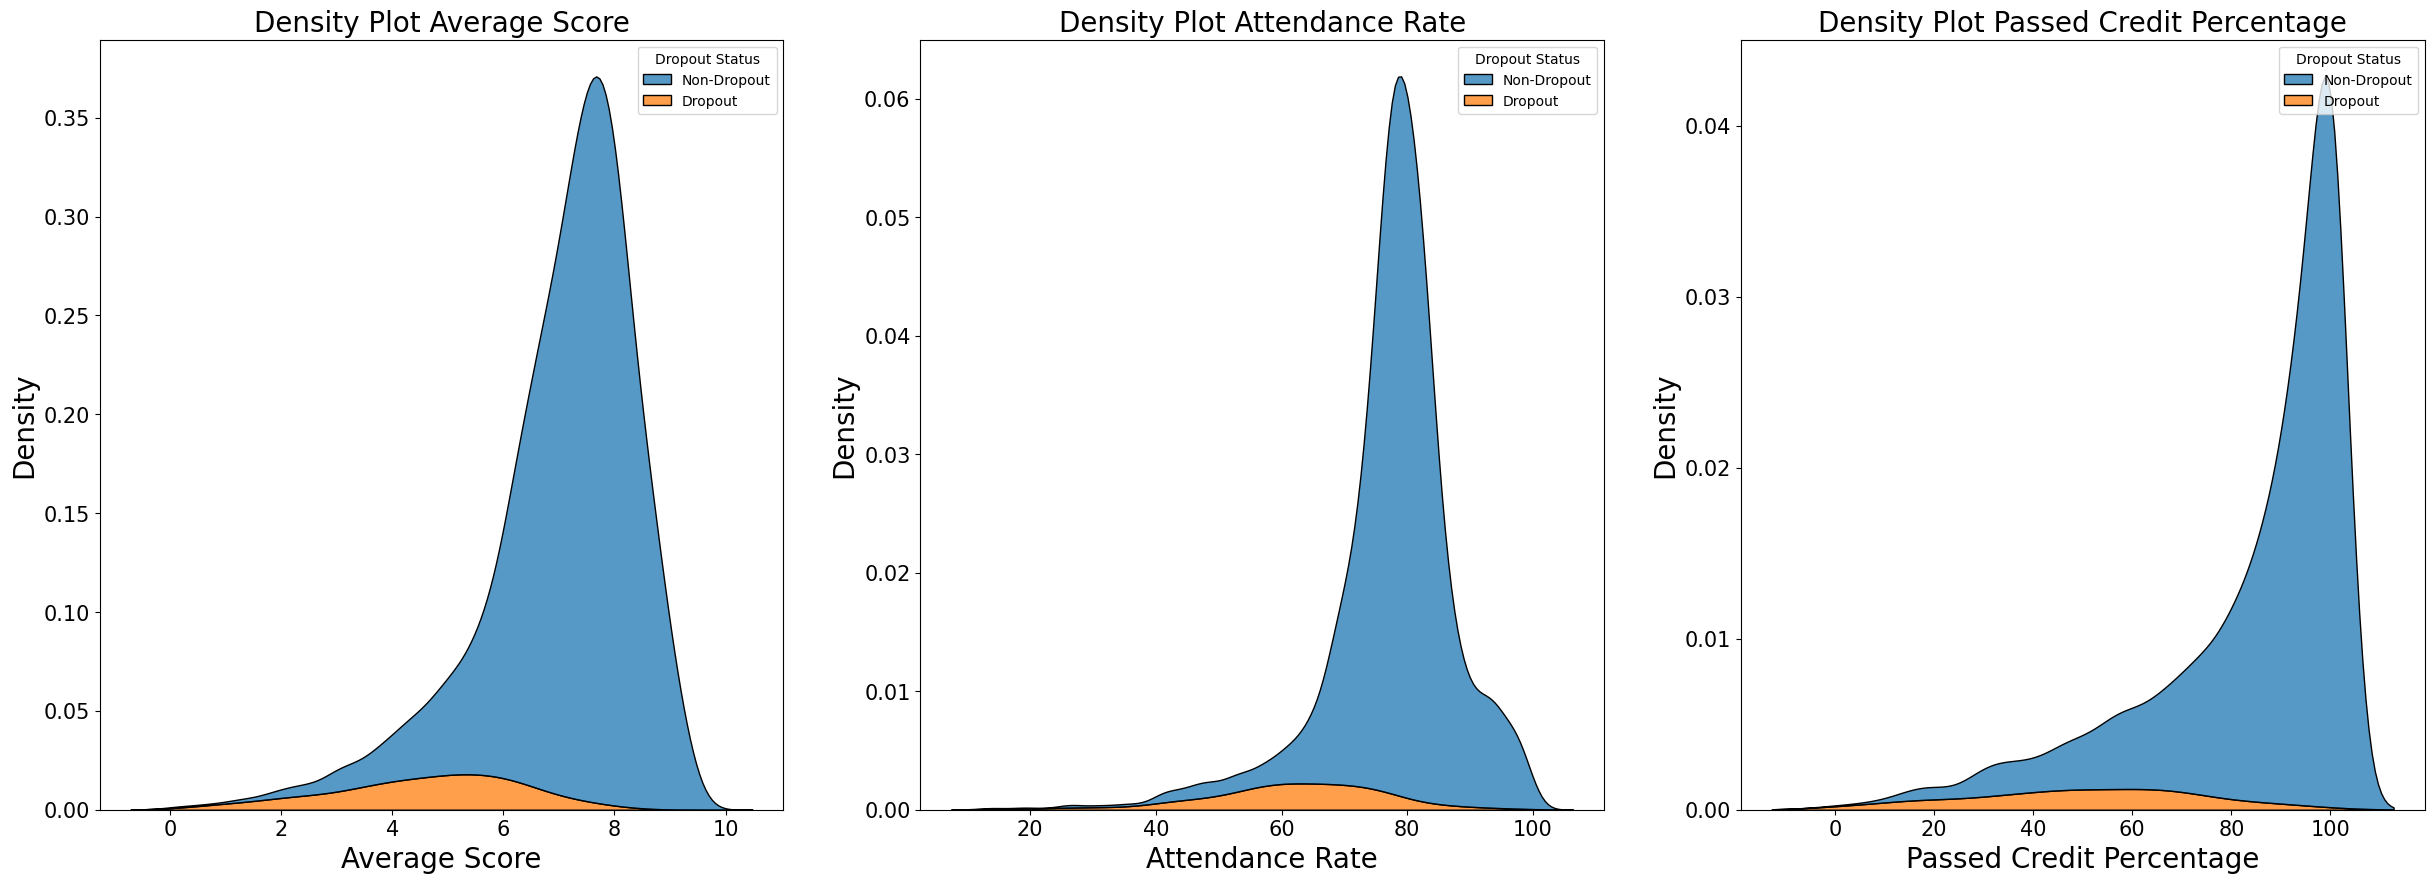
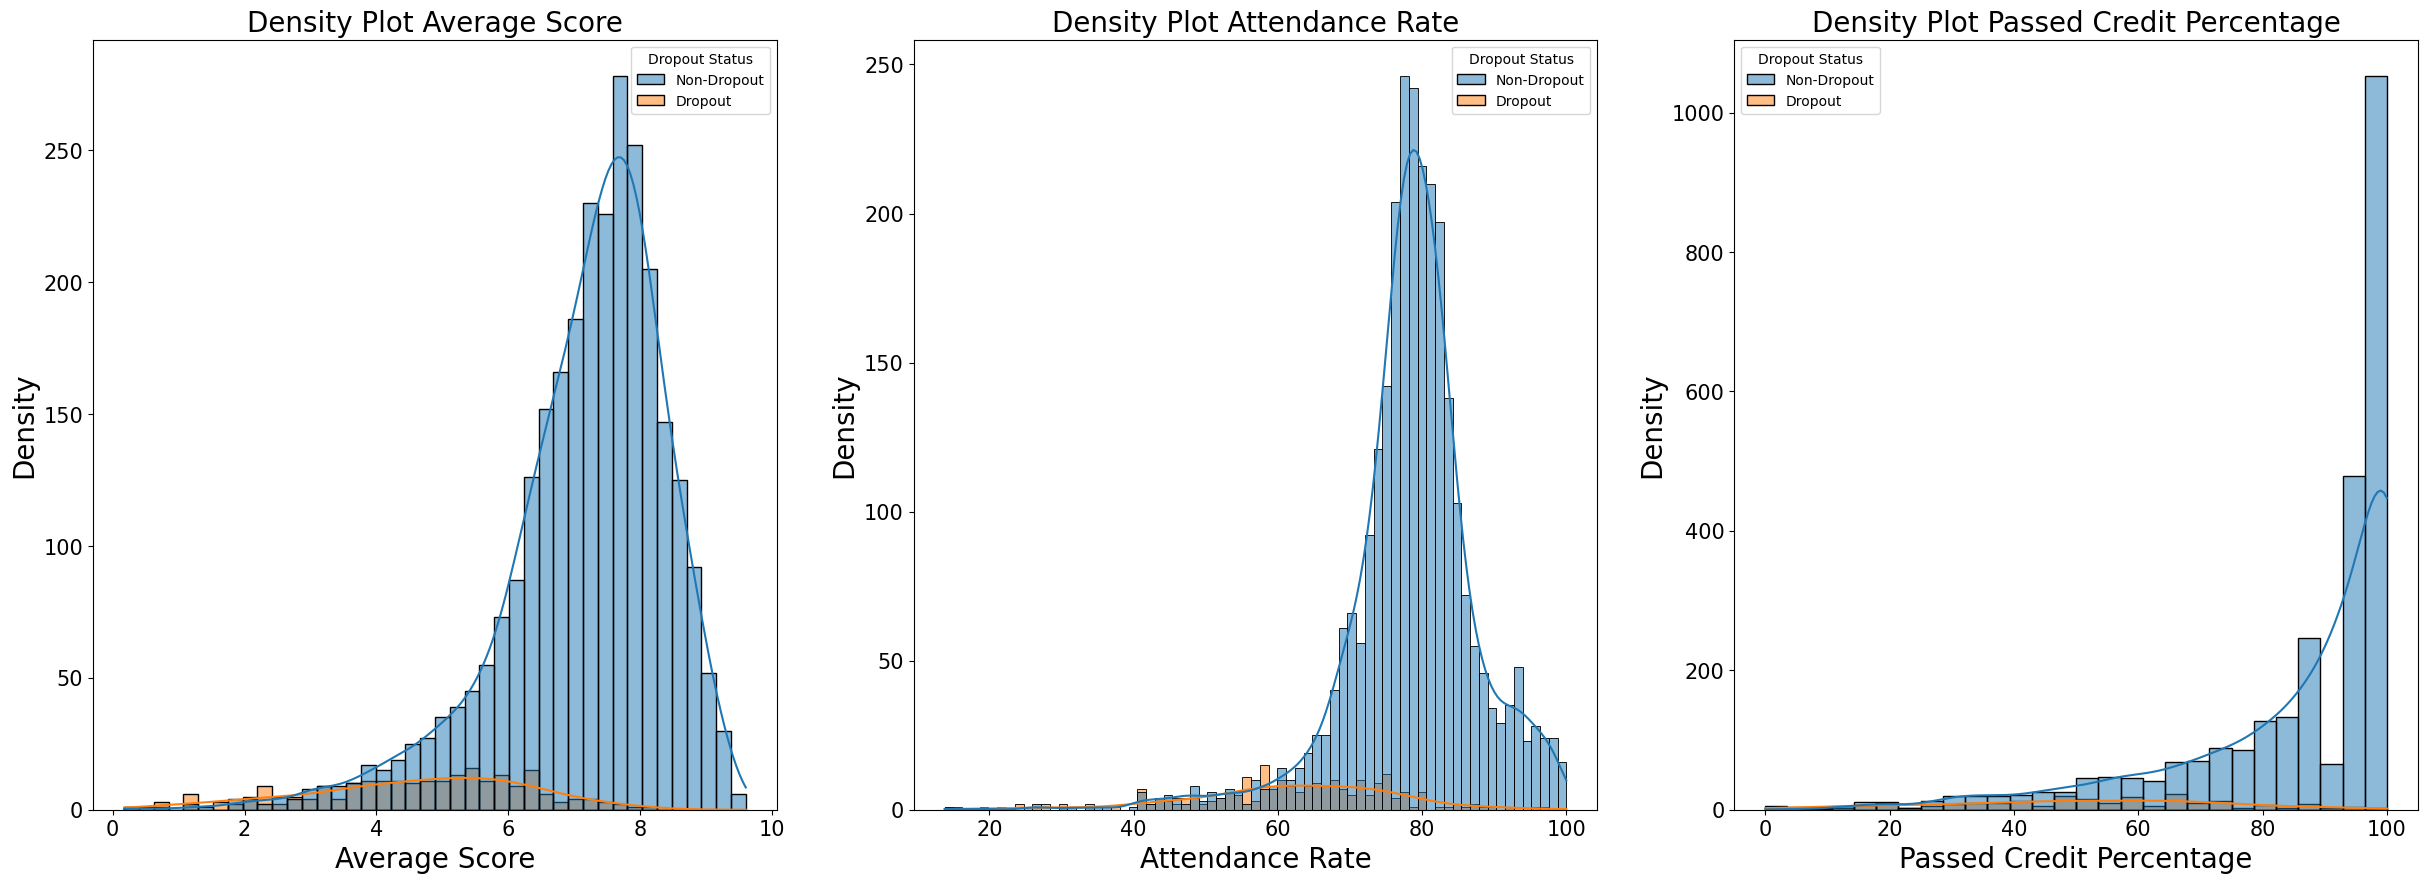
modify density plot

diff --git a/pp/Final_plots/density_plot/plot_density_9_features.py b/pp/Final_plots/density_plot/plot_density_9_features.py
@@ -76,64 +76,65 @@ df = merged_df[['Dropout Status',
                 'semester_2_attendance_rate', "semester_2_average_score", "semester_2_passed_percent",
                 'semester_3_attendance_rate', "semester_3_average_score", "semester_3_passed_percent"]]
 
-fig, axs = plt.subplots(3, 3, figsize=(30, 30))
-sns.kdeplot(data=df, x="semester_1_average_score", hue="Dropout Status", multiple="stack", ax=axs[0,0])
+
+fig, axs = plt.subplots(3, 3, figsize=(45, 45))
+sns.histplot(data=df, x="semester_1_average_score", hue="Dropout Status", kde=True, ax=axs[0,0])
 axs[0,0].set_title("Density Plot Average Score Semester 1", fontsize=20)
 axs[0,0].set_xlabel("Average Score", fontsize=20)
 axs[0,0].set_ylabel("Density", fontsize=20)
 axs[0,0].tick_params(axis='x', labelsize=15)
 axs[0,0].tick_params(axis='y', labelsize=15)
 
-sns.kdeplot(data=df, x="semester_2_average_score", hue="Dropout Status", multiple="stack", ax=axs[0,1])
+sns.histplot(data=df, x="semester_2_average_score", hue="Dropout Status", kde=True, ax=axs[0,1])
 axs[0,1].set_title("Density Plot Average Score Semester 2", fontsize=20)
 axs[0,1].set_xlabel("Average Score", fontsize=20)
 axs[0,1].set_ylabel("Density", fontsize=20)
 axs[0,1].tick_params(axis='x', labelsize=15)
 axs[0,1].tick_params(axis='y', labelsize=15)
 
-sns.kdeplot(data=df, x="semester_3_average_score", hue="Dropout Status", multiple="stack", ax=axs[0,2])
+sns.histplot(data=df, x="semester_3_average_score", hue="Dropout Status", kde=True, ax=axs[0,2])
 axs[0,2].set_title("Density Plot Average Score Semester 3", fontsize=20)
 axs[0,2].set_xlabel("Average Score", fontsize=20)
 axs[0,2].set_ylabel("Density", fontsize=20)
 axs[0,2].tick_params(axis='x', labelsize=15)
 axs[0,2].tick_params(axis='y', labelsize=15)
 
-sns.kdeplot(data=df, x="semester_1_attendance_rate", hue="Dropout Status", multiple="stack", ax=axs[1,0])
+sns.histplot(data=df, x="semester_1_attendance_rate", hue="Dropout Status", kde=True, ax=axs[1,0])
 axs[1,0].set_title("Density Plot Attendance Rate Semester 1", fontsize=20)
 axs[1,0].set_xlabel("Attendance Rate", fontsize=20)
 axs[1,0].set_ylabel("Density", fontsize=20)
 axs[1,0].tick_params(axis='x', labelsize=15)
 axs[1,0].tick_params(axis='y', labelsize=15)
 
-sns.kdeplot(data=df, x="semester_2_attendance_rate", hue="Dropout Status", multiple="stack", ax=axs[1,1])
+sns.histplot(data=df, x="semester_2_attendance_rate", hue="Dropout Status", kde=True, ax=axs[1,1])
 axs[1,1].set_title("Density Plot Attendance Rate Semester 2", fontsize=20)
 axs[1,1].set_xlabel("Attendance Rate", fontsize=20)
 axs[1,1].set_ylabel("Density", fontsize=20)
 axs[1,1].tick_params(axis='x', labelsize=15)
 axs[1,1].tick_params(axis='y', labelsize=15)
 
-sns.kdeplot(data=df, x="semester_3_attendance_rate", hue="Dropout Status", multiple="stack", ax=axs[1,2])
+sns.histplot(data=df, x="semester_3_attendance_rate", hue="Dropout Status", kde=True, ax=axs[1,2])
 axs[1,2].set_title("Density Plot Attendance Rate Semester 3", fontsize=20)
 axs[1,2].set_xlabel("Attendance Rate", fontsize=20)
 axs[1,2].set_ylabel("Density", fontsize=20)
 axs[1,2].tick_params(axis='x', labelsize=15)
 axs[1,2].tick_params(axis='y', labelsize=15)
 
-sns.kdeplot(data=df, x="semester_1_passed_percent", hue="Dropout Status", multiple="stack", ax=axs[2,0])
+sns.histplot(data=df, x="semester_1_passed_percent", hue="Dropout Status", kde=True, ax=axs[2,0])
 axs[2,0].set_title("Density Plot Passed Credit Percentage Semester 1", fontsize=20)
 axs[2,0].set_xlabel("Passed Credit Percentage", fontsize=20)
 axs[2,0].set_ylabel("Density", fontsize=20)
 axs[2,0].tick_params(axis='x', labelsize=15)
 axs[2,0].tick_params(axis='y', labelsize=15)
 
-sns.kdeplot(data=df, x="semester_2_passed_percent", hue="Dropout Status", multiple="stack", ax=axs[2,1])
+sns.histplot(data=df, x="semester_2_passed_percent", hue="Dropout Status", kde=True, ax=axs[2,1])
 axs[2,1].set_title("Density Plot Passed Credit Percentage Semester 2", fontsize=20)
 axs[2,1].set_xlabel("Passed Credit Percentage", fontsize=20)
 axs[2,1].set_ylabel("Density", fontsize=20)
 axs[2,1].tick_params(axis='x', labelsize=15)
 axs[2,1].tick_params(axis='y', labelsize=15)
 
-sns.kdeplot(data=df, x="semester_3_passed_percent", hue="Dropout Status", multiple="stack", ax=axs[2,2])
+sns.histplot(data=df, x="semester_3_passed_percent", hue="Dropout Status", kde=True, ax=axs[2,2])
 axs[2,2].set_title("Density Plot Passed Credit Percentage Semester 3", fontsize=20)
 axs[2,2].set_xlabel("Passed Credit Percentage", fontsize=20)
 axs[2,2].set_ylabel("Density", fontsize=20)

diff --git a/pp/Final_plots/density_plot/plot_density_3_features.py b/pp/Final_plots/density_plot/plot_density_3_features.py
@@ -86,21 +86,21 @@ df = merged_df[['Dropout Status',
                 'passed_percent']]
 
 fig, axs = plt.subplots(1, 3, figsize=(30, 10))
-sns.kdeplot(data=df, x="average_score", hue="Dropout Status", multiple="stack", ax=axs[0])
+sns.histplot(data=df, x="average_score", hue="Dropout Status", kde=True, ax=axs[0])
 axs[0].set_title("Density Plot Average Score", fontsize=20)
 axs[0].set_xlabel("Average Score", fontsize=20)
 axs[0].set_ylabel("Density", fontsize=20)
 axs[0].tick_params(axis='x', labelsize=15)
 axs[0].tick_params(axis='y', labelsize=15)
 
-sns.kdeplot(data=df, x="attendance_rate", hue="Dropout Status", multiple="stack", ax=axs[1])
+sns.histplot(data=df, x="attendance_rate", hue="Dropout Status", kde=True, ax=axs[1])
 axs[1].set_title("Density Plot Attendance Rate", fontsize=20)
 axs[1].set_xlabel("Attendance Rate", fontsize=20)
 axs[1].set_ylabel("Density", fontsize=20)
 axs[1].tick_params(axis='x', labelsize=15)
 axs[1].tick_params(axis='y', labelsize=15)
 
-sns.kdeplot(data=df, x="passed_percent", hue="Dropout Status", multiple="stack", ax=axs[2])
+sns.histplot(data=df, x="passed_percent", hue="Dropout Status", kde=True, ax=axs[2])
 axs[2].set_title("Density Plot Passed Credit Percentage", fontsize=20)
 axs[2].set_xlabel("Passed Credit Percentage", fontsize=20)
 axs[2].set_ylabel("Density", fontsize=20)
